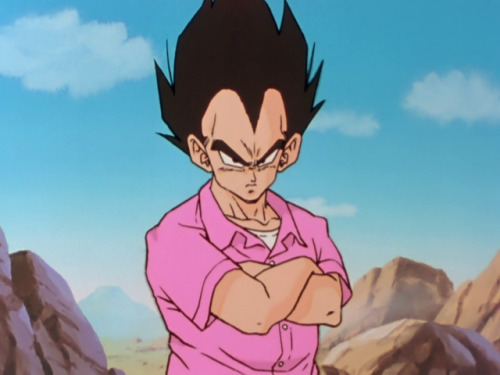
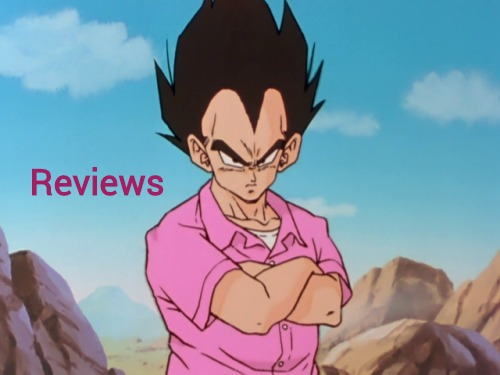
fixed homeage images

Changed region(s): [[0.06, 0.44, 0.33, 0.528]]

diff --git a/src/App.css b/src/App.css
@@ -119,45 +119,6 @@ align-items: center;
   padding-bottom: 1px;
 }
 
-.homeheader {
-  border: 2px;
-  margin: 40px;
-  padding-top: 20px;
-  padding-left: 240px;
-  padding-right: 240px;
-  padding-bottom: 8px;
-  font-size: 1.2em;
-  align-self: center;
-  color: rgb(110, 22, 56);
-}
-
-.homepage-mainbody {
-  display:flexbox;
-  flex-direction: column;
-  justify-content: space-evenly;
-  border: 2px;
-  margin: 10px;
-  max-width: 580px;
-  padding-top: 48px;
-  padding-left: 160px;
-  padding-right: 160px;
-  padding-bottom: 20px;
-  margin-bottom: 60px;
-  border-style: double;
-  border-color: rgb(37, 4, 56);
-  border-radius: 25px;
-  background-color: rgb(238, 202, 217);
-  /* rgb(219, 221, 185); */
-    font-family: Lucida, sans-serif;
-  /* font-family: Palatino, URW Palladio L, serif; */
-  font-size: 21px;
-  
-}
-
-.insidetext {
-word-wrap: break-word;
-}
-
 .intro-text {
   word-wrap: break-word;
   border-style: double;
@@ -206,30 +167,25 @@ word-wrap: break-word;
   background-repeat: no-repeat;
 }
 
-.sectionimagetext {
-  z-index: 90;
-  position: absolute; 
-   top: 68px; 
-   left: 0; 
-   width: 66%; 
-   font-size: 22px;
-   color: rgb(167, 29, 98);
-}
-
-.sectionselect {
-  position: relative; 
-  width: 100%;
+.section-img-container {
+  display: flex;
+  flex-direction: row;
+  justify-content: center;
+  align-self: center;
+  flex-flow: row wrap;
+  flex-wrap: wrap;
 }
 
 .sectionselect-img {
   height: 180px;
   width: 290px;
-  margin-bottom: 20px;
+  margin-left: 1vw;
+  margin-right: 1vw;
   object-fit: cover;
-  border-style: solid;
+  border-style: double;
   border-color: black;
   border-width: 1px;
-  border-radius: 25px;
+  align-self: center;
 }
 
 .selection-img {

diff --git a/src/components/page/Home.js b/src/components/page/Home.js
@@ -11,8 +11,10 @@ const Home = () => {
                 <Header text="Home" />
                 </h1>
                 <div className="article-main-body">
+                    <div className="section-img-container">
                     <SectionSelectImage domain="reviews" title="reviews"/>
                     <SectionSelectImage domain="articles" title="articles"/>
+                    </div>
                 {/* <Link className="link-mainpage" to="/reviews" >Reviews</Link>  <br/>
                 <Link className="link-mainpage" to="/articles" >Articles</Link> */}
                 <div className="article-main-text">

diff --git a/src/components/SectionSelectImage.js b/src/components/SectionSelectImage.js
@@ -7,7 +7,6 @@ const SectionSelectImage = (props) => {
         return (
             <div className="sectionselect">
 <Link to={`./${props.domain}`}><img className="sectionselect-img" src={require(`../images/${props.title}.jpg`)}></img></Link>
-<h2 className="sectionimagetext">{props.domain}</h2>
             </div>
         );
     }
